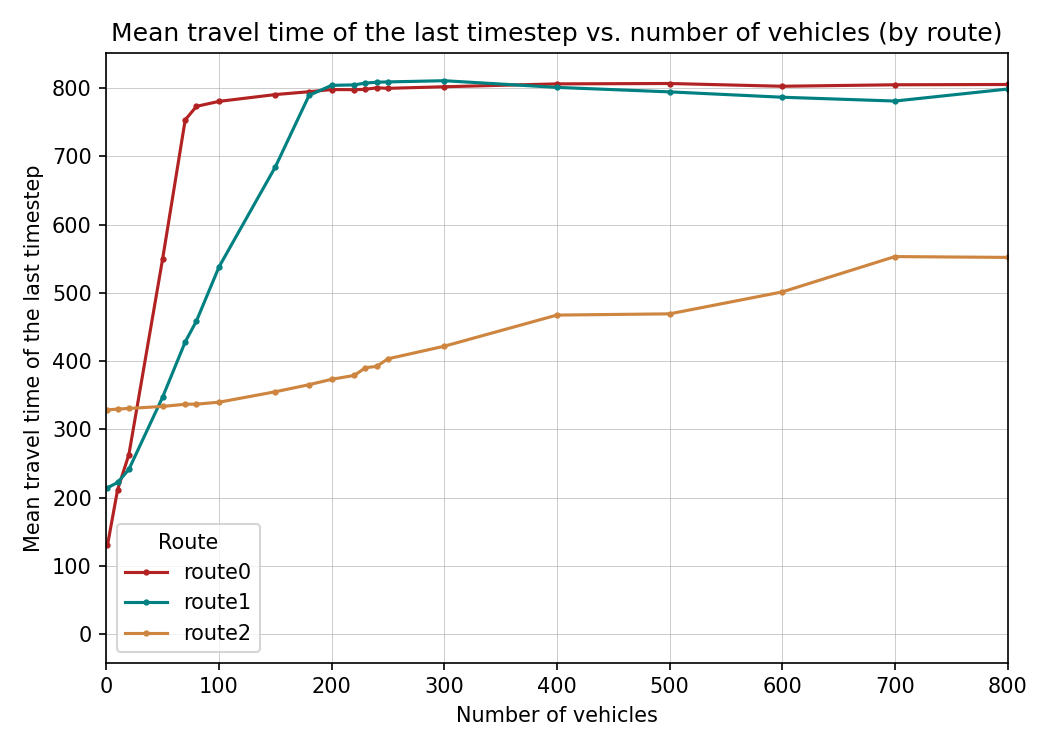
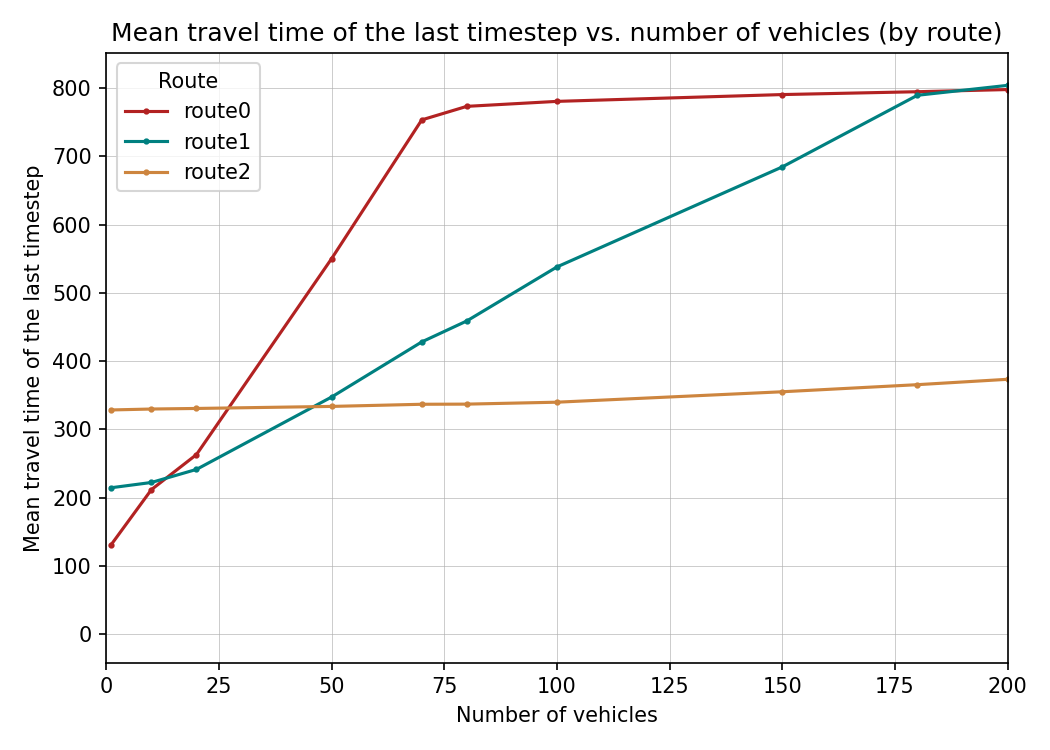
update last step mean tt fgr

diff --git a/network_analysis/analysis_scripts/plot_last_step_mean_tt.py b/network_analysis/analysis_scripts/plot_last_step_mean_tt.py
@@ -194,7 +194,7 @@ def plot_data(data, path_full: Path, path_zoom: Path):
     # Full version
     make_plot(xlim=None, save_path=path_full)
     # Zoomed version (xlim = 2000)
-    make_plot(xlim=800, save_path=path_zoom)
+    make_plot(xlim=200, save_path=path_zoom)
 
 
 # ===========================
